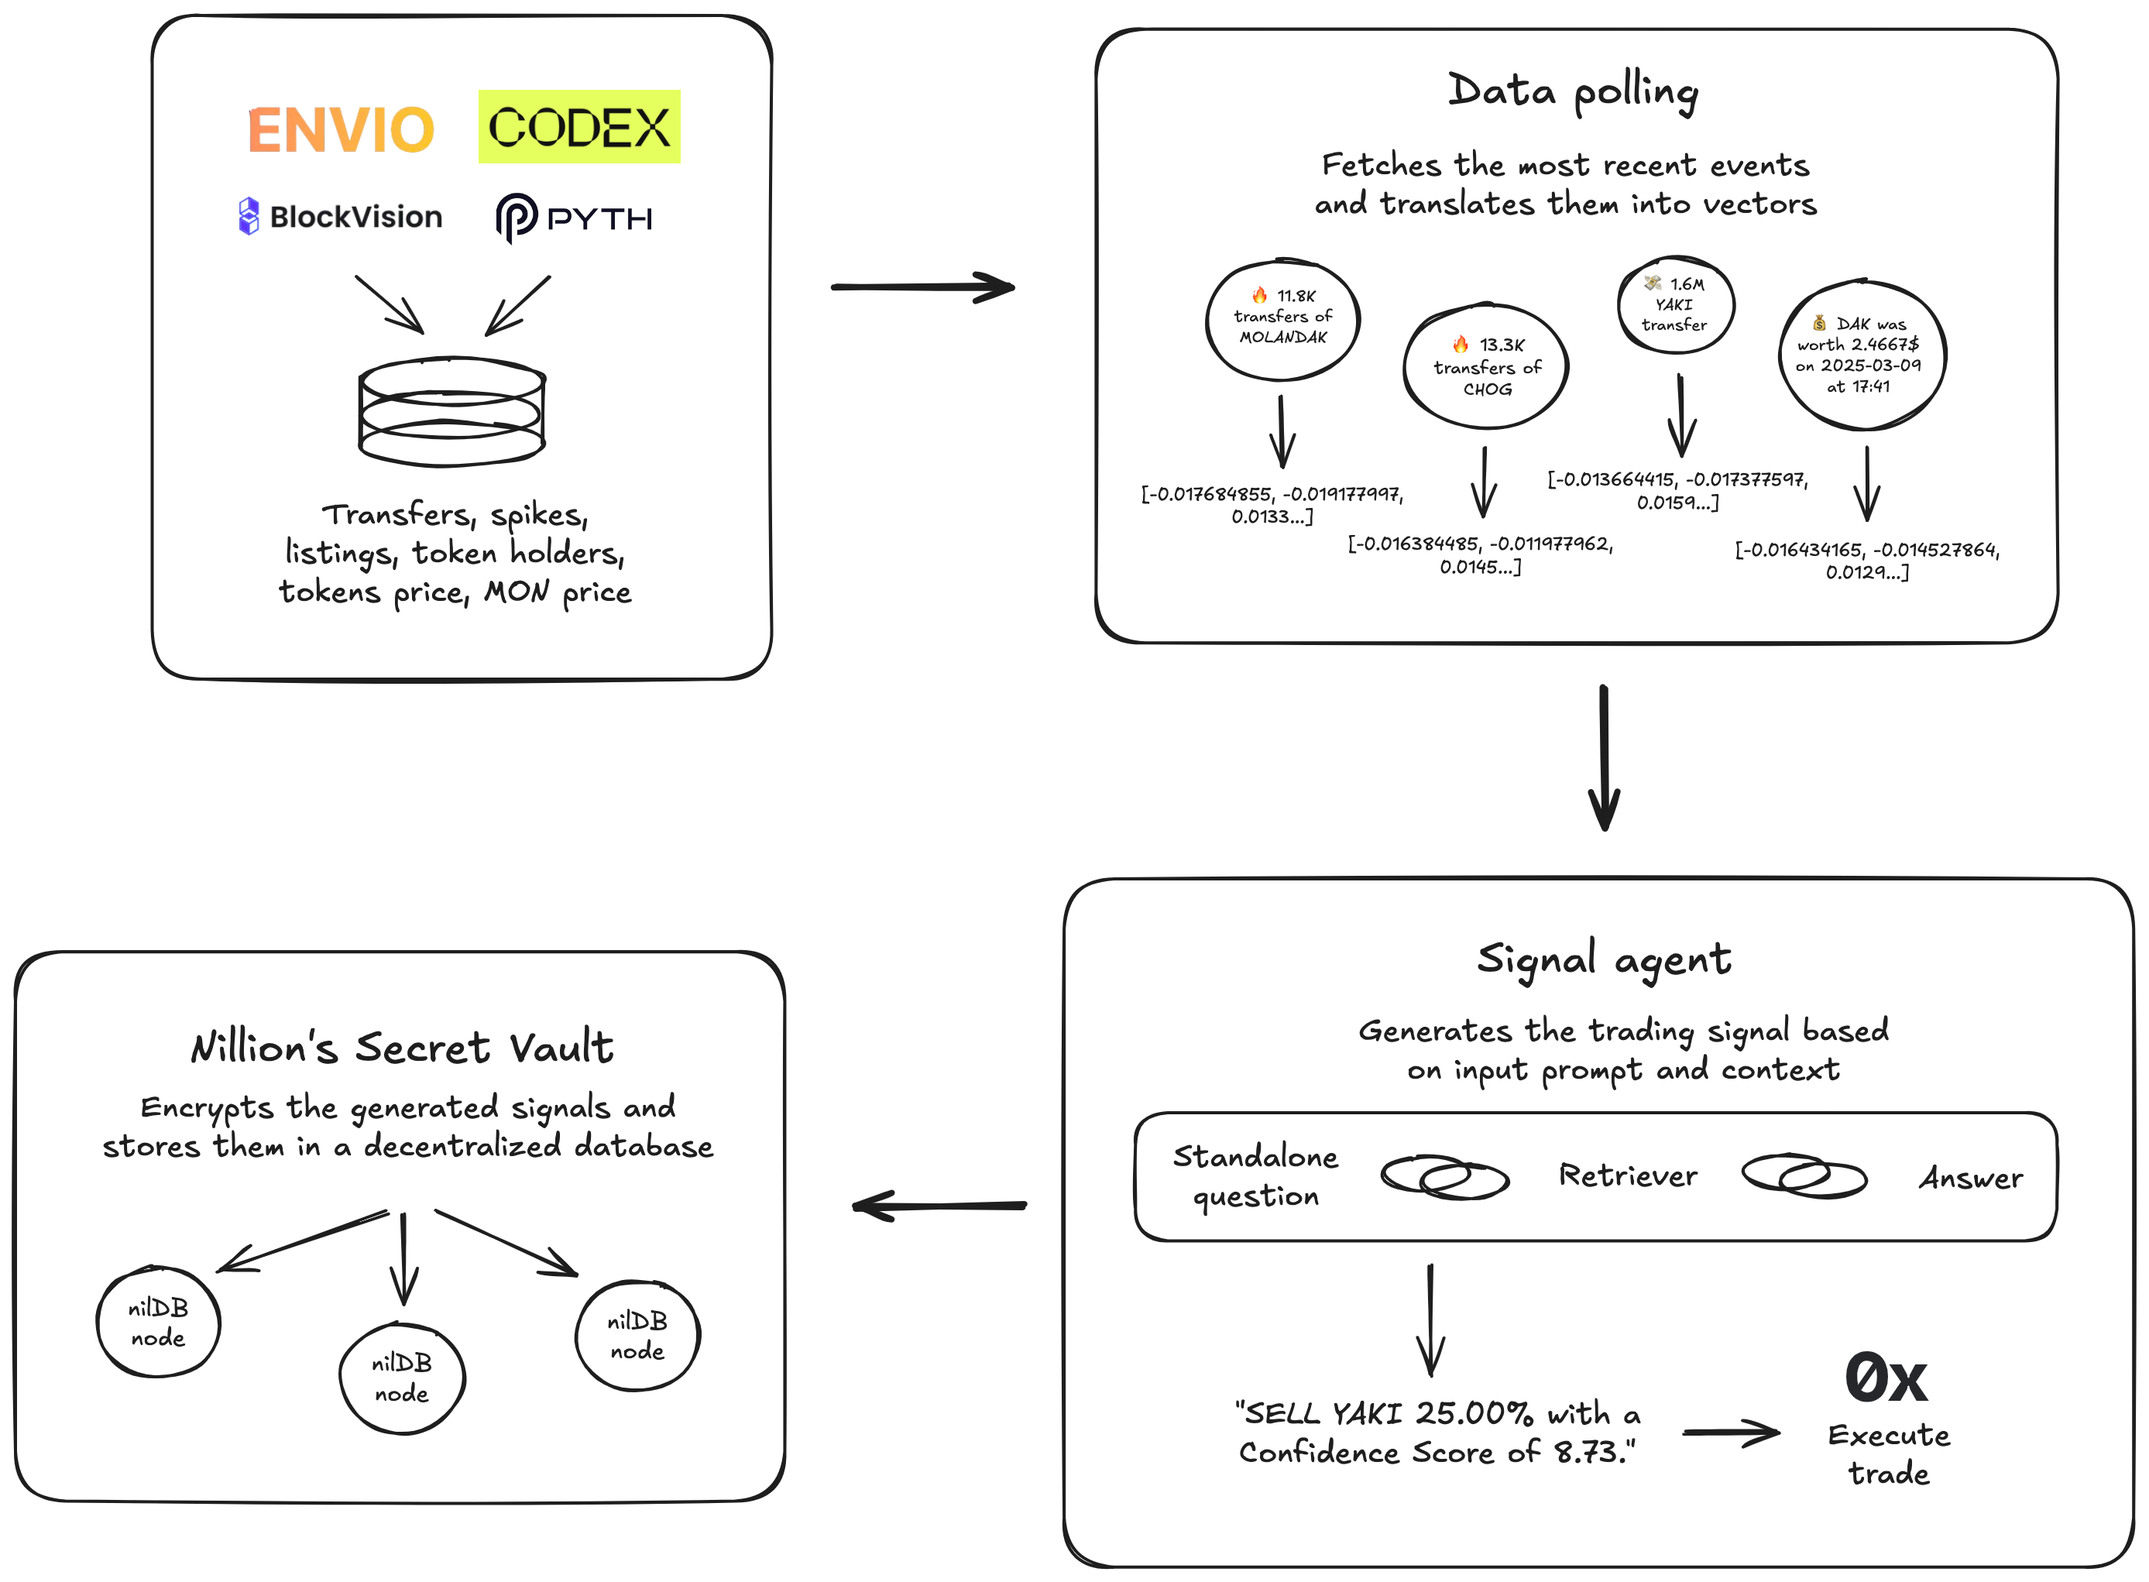
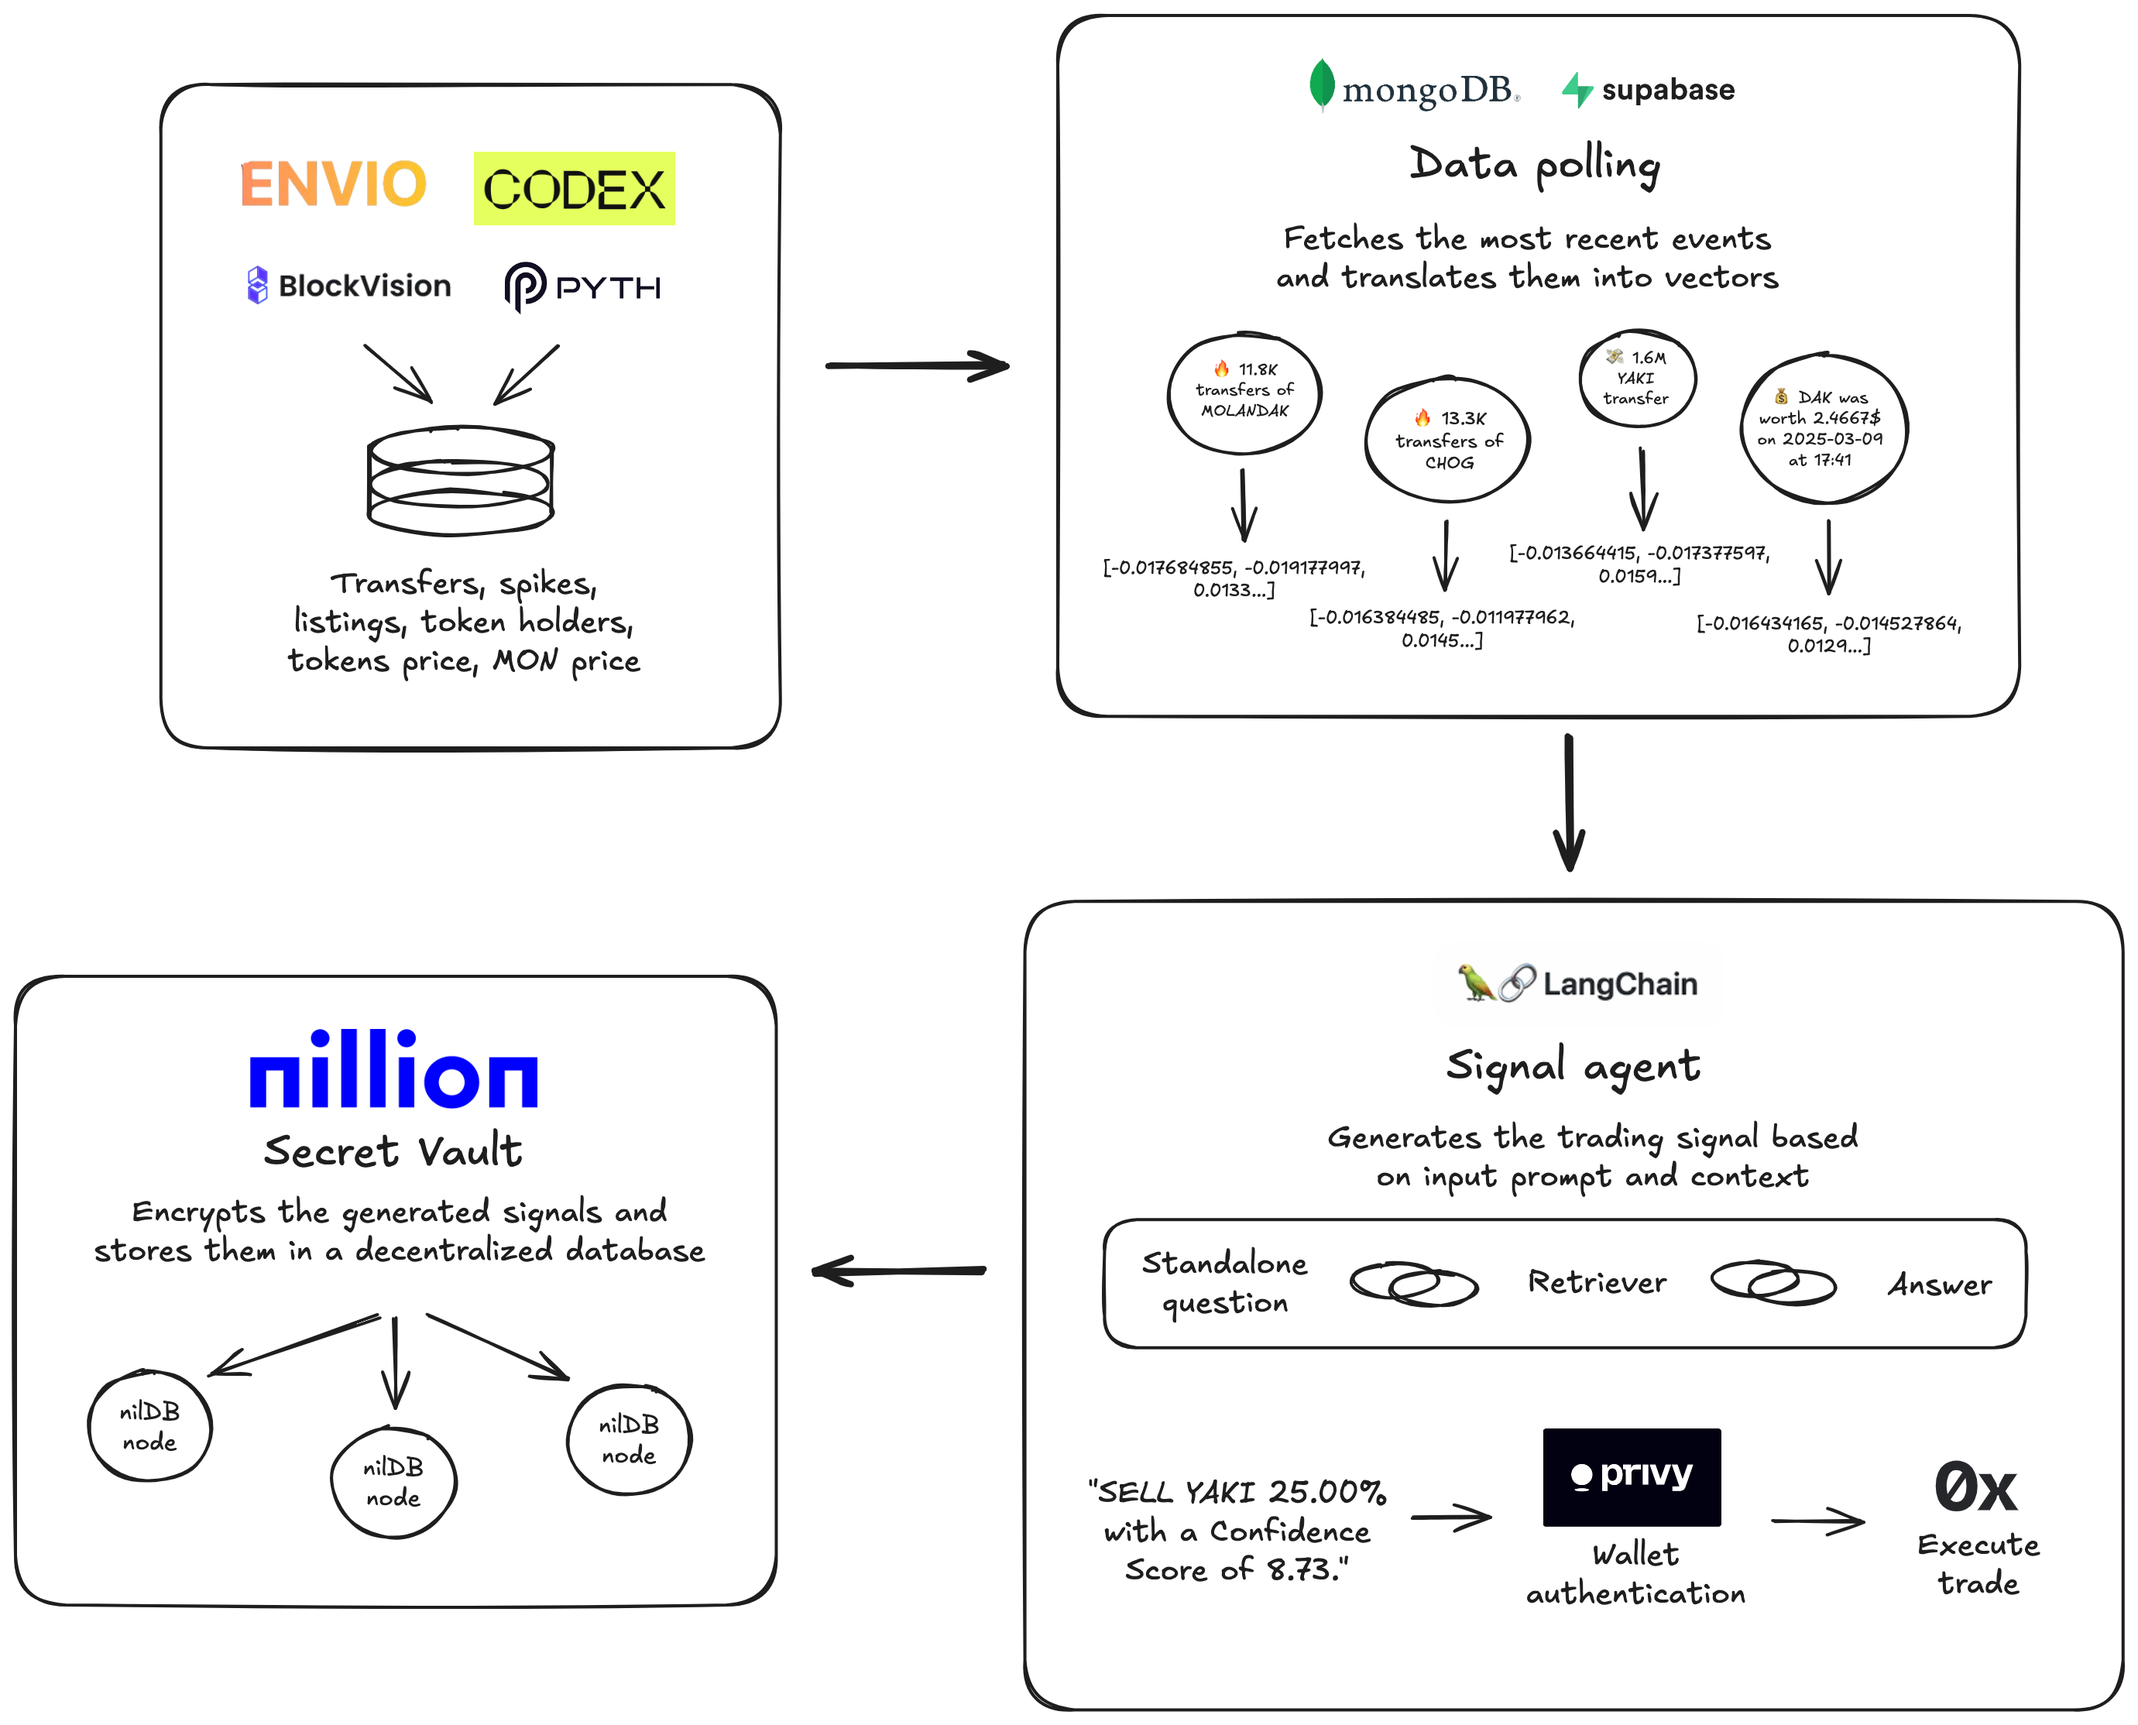
Updated draft for final readme

diff --git a/submission/submission.md b/submission/submission.md
@@ -1,37 +1,108 @@
-# Gorillionaire
+<br />
+<div id="readme-top" align="center">
+  <a href="">
+    <img src="./img/gorillionaire-logo.svg" alt="Gorillionaire Logo" width="220" height="55">
+  </a>
 
-## Overview
-Gorillionaire is the most advanced AI Crypto Signals & Gamified Trading platform. Maximize your profits by accessing to premium trading signal generated by our Signal Agent, which will give you the most up to date suggestions based on actual market conditions. Gain point with every trade you make, enjoy the competition with other trading, and make a living by accessing to every market opportunity available to you! 
+  <p align="center" style="font-size: 24px">
+    <strong>AI Crypto Signals & Gamified Trading platform</strong>
+    <br />
+    <a href="https://app.gorillionai.re/" style="font-size: 16px"><strong>Visit the website »</strong></a>
+    <br />
+    <div>
+    <div style="display: flex; flex-direction: row; justify-content: center; align-items: center">
+    <p>
+    Powered by
+    </p>
+        <a href="https://www.gorilli.io/en">
+            <img src="./img/gorilli-logo.svg" alt="Gorilli Logo" width="100" height="30">
+        </a>
+        </div>
+    </div>
+  </p>
+</div>
 
-## Target audience
-Gorillionaire is a platform that makes trading tokens easier and quicker, allowing both degens and seasoned tradfi traders to access the market's most hidden opportunities. The trading signal system lowers the access barrier to this kind of activities, allowing for a mass-adoption of the platform.
+# Table of contents
 
-## Sustainability in the long-run
+<!-- TOC -->
+  - [1. Overview](#1-overview)
+  - [2. Target audience](#2-target-audience)
+  - [3. Long-term sustainability](#3-long-term-sustainability)
+  - [4. Submission details](#4-submission-details)
+  - [5. Technologies used](#5-technologies-used)
+  - [6. Sponsors](#6-sponsors)
+  - [7. Security considerations](#7-security-considerations)
+  - [7. Implementation](#7-implementation)
+    - [7.1 Token tracking](#71-token-tracking)
+    - [7.2 Data polling](#72-data-polling)
+    - [7.3 Signal generation](#73-signal-generation)
+    - [7.4 Nillion's Secret Vault](#74-nillions-secret-vault)
+  - [8. License](#8-license)
+
+## 1. Overview
+
+Gorillionaire is an innovative AI Crypto Signals & Gamified Trading platform. Maximize your profits by accessing to premium trading signal generated by our Signal Agent, which will give you the most up to date suggestions based on actual market conditions. Gain points with every trade you make, enjoy the competition with other traders, and make a living by accessing every market opportunity available to you!
+
+## 2. Target audience
+
+Gorillionaire is a platform that makes trading tokens easier and quicker, allowing both degens and seasoned tradfi traders to access the market's most hidden opportunities. The trading signal system lowers the access barriers to this kind of activities, allowing for mass-adoption of the platform.
+
+## 3. Long-term sustainability
+
 Signals generated by our agent are stored in an encrypted database provided by Nillion. This allows the project to grant access to users willing to contribute by purchasing the Gorillionaire Access NFT, which will allow complete access to the signal generation function, as well as fostering the competition on the trader's leaderboard.
 
-## Submission details
+## 4. Submission details
+
 - GitHub Repository: https://github.com/gorilli-team/gorillionaire
 - Link to the project: https://app.gorillionai.re/
 
-## Bounty application
-- **Nillion**: Gorillionaire generates trading signals and stores them securely in a decentralized database thanks to Nillion. These signals are accessible by the users that have purchased the Gorillionaire Access NFT.<br>
-Link to the bounty:<br>
-https://monad-foundation.notion.site/Sponsor-Bounties-Resources-1916367594f2802ba5d8c832089fde42?p=1916367594f280aea084c6cf78329696&pm=c
+## 5. Technologies used
 
-- **Envio**: Gorillionaire tracks tokens information with the Envio Indexer, which facilitates the off-chain monitoring of on-chain events. These events will then be the context for the Signal Agent to generate the best trading signal based on current market condition.<br>
-Link to the bounty:<br>
-https://monad-foundation.notion.site/Sponsor-Bounties-Resources-1916367594f2802ba5d8c832089fde42?p=1a16367594f280378f5eedd541e71366&pm=c
+<a href="https://nextjs.org/"><img src="./img/nextjs-logo.png" alt="NextJS Logo" width="50" height="50"></a>
+<a href="https://www.mongodb.com/"><img src="./img/mongodb-logo.svg" alt="MongoDB Logo" width="50" height="50"></a>
+<a href="https://supabase.com/"><img src="./img/supabase-logo.svg" alt="Supabase Logo" width="50" height="50"></a>
+<a href="https://testnet.monad.xyz/"><img src="./img/monad-logo.webp" alt="Monad Logo" width="50" height="50"></a>
+<a href="https://www.pyth.network/"><img src="./img/pyth-logo.svg" alt="Langchain Logo" width="50" height="50"></a>
+<a href="https://blockvision.org/"><img src="./img/blockvision-logo.svg" alt="Blockvision Logo" width="50" height="50"></a>
+<a href="https://www.codex.io/"><img src="./img/codex-logo.png" alt="Codex Logo" width="50" height="50"></a>
+<a href="https://www.langchain.com/"><img src="./img/langchain-logo.png" alt="Langchain Logo" width="70" height="50"></a>
 
-- **0x Swap API**: Users will find the best swap opportunity thanks to 0x Swap API, which allows the user to execute the trading signal generated by the Signal Agent.<br>
-Link to the bounty:<br>
-https://monad-foundation.notion.site/Sponsor-Bounties-Resources-1916367594f2802ba5d8c832089fde42?p=1916367594f2808588d7d30ce1ee5f00&pm=c
+## 6. Sponsors
 
-## Implementation
-![Implementation diagram](/img/Final%20diagram%20(minimal).png)
+<a href="https://www.privy.io/"><img src="./img/privy-logo.jpg" alt="Privy Logo" width="50" height="50"></a>
+<a href="https://0x.org/products/swap"><img src="./img/0x-logo.png" alt="0x Logo" width="50" height="50"></a>
+<a href="https://nillion.com/"><img src="./img/nillion-logo.jpg" alt="Nillion Logo" width="50" height="50"></a>
+<a href="https://envio.dev/"><img src="./img/envio-logo.png" alt="Envio Logo" width="120" height="50"></a>
 
-### Token tracking
+| Sponsor     | Integration method    | Description                                                                                                                                                         | Link to the bounty |
+| ----------- | --------------------- | ------------------------------------------------------------------------------------------------------------------------------------------------------------------- | ------------------ |
+| Privy       | Wallet authentication | Users can easily access the platform with their wallet thanks to Privy, which smoothens the onboarding process with crypto/fiat onramping.                          | [Link](https://monad-foundation.notion.site/Sponsor-Bounties-Resources-1916367594f2802ba5d8c832089fde42?p=1916367594f280e987a0d78437c2c777&pm=c)         |
+| 0x Swap API | Swap tokens           | Users can execute their trade according to the signal generated thanks to 0x Swap API, which allows them to find the best swap opportunity available on the market. | [Link](https://monad-foundation.notion.site/Sponsor-Bounties-Resources-1916367594f2802ba5d8c832089fde42?p=1916367594f2808588d7d30ce1ee5f00&pm=c)         |
+| Nillion     | Encrypted storage     | Generated signals are stored securely on a decentralized database provided by Nillion.                                                                              | [Link](https://monad-foundation.notion.site/Sponsor-Bounties-Resources-1916367594f2802ba5d8c832089fde42?p=1916367594f280aea084c6cf78329696&pm=c)         |
+| Envio       | Token tracking        | Transfers and listings events are tracked with Envio, these will serve as the context for the signal generation process.                                            | [Link](https://monad-foundation.notion.site/Sponsor-Bounties-Resources-1916367594f2802ba5d8c832089fde42?p=1a16367594f280378f5eedd541e71366&pm=c)         |
+
+
+## 7. Security considerations
+
+| Category           | Security measures                                | Description                                                                                                                       |
+| ------------------ | ------------------------------------------------ | --------------------------------------------------------------------------------------------------------------------------------- |
+| Smart contracts    | Followed CEI pattern                             | The mint function in AccessNFT updates the token counter before minting the NFT, preventing re-entrancy attacks.                  |
+|                    | Inherited from standard contracts (OpenZeppelin) | AccessNFT inherits from ERC721 and Ownable standard contracts from the OpenZeppelin library, ensuring adherence to best practices |
+| API Calls          | Privy token authorization                        | Only users with an authorized Privy token can access to API calls to the backend                                                  |
+| Nillion            | NFT based authorization                          | Encrypted signals are accessible only to users that successfully purchased the AccessNFT                                          |
+| Leaderboard scores | Backup transactions on DB                        | Transaction intents are stored on DB to verify the assignment of trading points when the transaction is executed                  |
+
+## 7. Implementation
+<div style="display: flex; justify-content:center">
+<img src="./img/Final diagram (minimal).png" alt="Implementation Diagram" width="800" height="650"></img>
+</div>
+
+
+### 7.1 Token tracking
+
 The best trading signals are generated with the most accurate events and information about the tokens available. We decided to track the 3 most traded tokens in the Monad Testnet, which are Molandak (DAK), Moyaki (YAKI), and Chog (CHOG).<br>
 We acquire information regarding transfers, spikes, new listings, token holders, tokens price evolution, and the native token MON price. These information are fetched via 4 different services:
+
 - **Envio**: transfers, spikes, listings
 - **Codex**: tokens price
 - **Blockvision**: token holders
@@ -39,23 +110,28 @@ We acquire information regarding transfers, spikes, new listings, token holders,
 
 All the data are then stored on MongoDB (except for the MON price which is rendered on the frontend).
 
-![Token tracking](/img/New%20token%20tracking.png)
+More details [here]().
 
-### Data polling
+### 7.2 Data polling
+
 The raw data stored on MongoDB are then fetched every 30 minutes by the Signal Agent, which will query each collections and will fetch only the newly added events. Langchain's text splitter has been used for converting those events into machine readable vectors via the OpenAI Embeddings. Those embeddings are then stored in a Supabase database for the next step.
 
-![Data polling & Text splitting](/img/Data%20polling%20&%20Text%20splitting.png)
+More details [here](../langchain/README.md).
 
-### Signal generation
+### 7.3 Signal generation
+
 The signal generation process has been created with Langchain. This tool helped us to structure a chain of prompts that translates an input prompt into an actionable and coherent trading signal. Thanks to the `match_documents` function on Supabase database, we are able to find the best events for the input prompt given. These events will then serve as the context for the generated signal.
 
-![Signal generation](/img/Signal%20agent.png)
+More details [here](../langchain/README.md).
 
-### Nillion's Secret Vault
+### 7.4 Nillion's Secret Vault
+
 All the signals are stored in a decentralized database provided by Nillion. Thanks to Nillion, we are able to guarantee the encryption of both the trading signal text and the events that generated it, granting exclusive access only to those users that purchased the Gorillionaire Access NFT.
 
-![Nillion's Secret Vault](/img/Nillion.png)
+More details [here](../nillion/README.md).
 
+## 8. License
+The project has been developed for the Monad EVM/ACCATHON. All the files are licensed under the [MIT License](./LICENSE). We reserve the rights to change the license for further production deployment of the entire project.
 
 
 ## 🎯 User Experience (UX)
